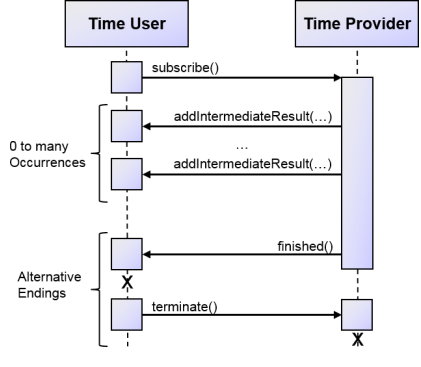
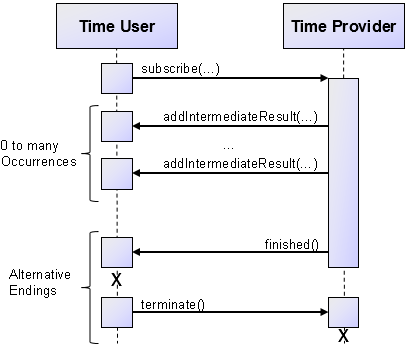
update timeservice interface in quickstart tutorial

Changed region(s): [[0.0, 0.0, 1.0, 1.0]]

diff --git a/applications/micro/src/main/java/jadex/micro/quickstart/ITimeService.java b/applications/micro/src/main/java/jadex/micro/quickstart/ITimeService.java
@@ -21,7 +21,7 @@ public interface ITimeService
 	/**
 	 *  Get the location of the platform, where the time service runs.
 	 */
-	// TODO: support for cached methods, yes or no? -> otherwise forbid or support sync?
+// TODO: support for cached methods, yes or no? -> otherwise forbid or support sync?
 	public IFuture<String>	getLocation();
 	
 	/**

diff --git a/docs/tutorials/quickstart/02 Time Service Interface.md b/docs/tutorials/quickstart/02 Time Service Interface.md
@@ -6,64 +6,71 @@ This chapter sketches the Java project setup and explains how to define a Jadex 
 
 This quickstart tutorial assumes that you are familiar with Java and your favourite IDE. Therefore, you should know how to set up a project to start developing Java applications, which use Jadex.
 
-For your Java project please make sure **not** to include the jadex-application-xyz jars as they already contain the quickstart tutorial classes. If you include these, Java might ignore your own classes and only use the ones from the jar. If you set up your project using the gradle-based [Jadex example project](../../getting-started/getting-started.md#importing-the-jadex-example-project), the appropriate jars will be automatically included and excluded as needed.
+For your Java project please make sure **not** to include the `jadex-application-xyz` jars as they already contain the quickstart tutorial classes. If you include these, Java might ignore your own classes and only use the ones from the jar. If you set up your project using the gradle-based [Jadex example project](../../getting-started/getting-started.md#importing-the-jadex-example-project), the appropriate jars will be automatically included and excluded as needed.
 
 If you need additional guidance for the project setup, please have a look at the [getting started guide](../../getting-started/getting-started.md#ide-setup)).
 
 ## The Time Service Interface
 
-Create Java file *ITimeService.java* in the package *jadex.micro.quickstart* and paste the contents as shown below. In Eclipse you can also copy/paste the code directly into your project and [have Eclipse create the package and file automatically](../../getting-started/getting-started.md#testing-your-project-setup). The relevant aspects of this file are explained in the following subsections.
+Create Java file `ITimeService.java` in the package `jadex.micro.quickstart` and paste the contents as shown below. In Eclipse you can also copy/paste the code directly into your project and [have Eclipse create the package and file automatically](../../getting-started/getting-started.md#testing-your-project-setup). The relevant aspects of this file are explained in the following subsections.
 
 ```java
 package jadex.micro.quickstart;
 
+import java.text.DateFormat;
+
 import jadex.bridge.service.annotation.Security;
+import jadex.bridge.service.annotation.Service;
+import jadex.commons.future.IFuture;
 import jadex.commons.future.ISubscriptionIntermediateFuture;
+
 
 /**
  *  Simple service to publish the local system time.
  *  As the service does not change the local system
  *  and provides no sensitive information, no security
- *  restrictions are required.
+ *  restrictions are required. 
  */
-@Security(Security.UNRESTRICTED)
+@Security(roles=Security.UNRESTRICTED)
+@Service
 public interface ITimeService
 {
     /**
-     *  Subscribe to the time service.
-     *  Every couple of seconds, a string with the current time
-     *  will be sent to the subscriber.
+     *  Get the location of the platform, where the time service runs.
      */
-    public ISubscriptionIntermediateFuture<String>    subscribe();
+    public IFuture<String> getLocation();
 
     /**
-     *  Get the location of the platform, where the time service runs.
-     *  The location is a constant value for each service, therefore it can be cached
-     *  and no future is needed.
+     *  Subscribe to the time service.
+     *  Every couple of seconds, a string with the current time will be
+     *  sent to the subscriber.
      */
-    public String    getLocation();
+    public ISubscriptionIntermediateFuture<String> subscribe(DateFormat format);
 }
+
 ```
 
 *Figure 1:* Time service interface in Java
 
 ### The Name and Package of the Interface
 
-In Jadex, the fully qualified name of a service interface is used for service discovery. Therefore when you implement a time user component to search for your *ITimeService*, Jadex will discover all components worldwide that offer a service of type *jadex.micro.quickstart.ITimeService*. If you make sure to use the interface and package name as shown, you might be able to find other people's time provider components.
+In Jadex, the fully qualified name of a service interface is used for service discovery. Therefore when you implement a time user component to search for your `ITimeService`, Jadex will discover all components worldwide that offer a service of type `jadex.micro.quickstart.ITimeService`. If you make sure to use the interface and package name as shown, you might be able to find other people's time provider components.
 
-* *todo: E.g. for testing purposes there should be a time provider running on our infrastructure.*
-* *todo: infrastructure link?*
-* *todo: time provider autodeploy from build*
-* *todo: web page listing available time providers (jadex.js)* |
+<!--
+TODO:
+* E.g. for testing purposes there should be a time provider running on our infrastructure.
+* infrastructure link?
+* time provider autodeploy from build
+* web page listing available time providers (jadex.js)
+-->
 
-### The *subscribe()* Method
+### The `subscribe()` Method
 
 Service methods are potentially remote calls. Therefore service methods should use [future types](../../futures/futures.md)) as return values. Futures avoid that the caller is blocked during the service processing and add further support e.g. for dealing with timeouts.
 
-The subscribe() method signature captures most of the interaction between time provider and time user. It uses the [subscription intermediate future](../../futures/futures.md)) as a return type, which denotes a subscription semantics for the interaction as shown in the diagram below.
+The `subscribe()` method signature captures most of the interaction between time provider and time user. It accepts a `DateFormat` object as input and uses the [subscription intermediate future](../../futures/futures.md#subscription-futures)) as a return type, which denotes a subscription semantics for the interaction as shown in the diagram below.
 
-![02 Time Service Interface@subscription.png](subscription.png)
-*Figure 2: Interaction diagram of a subscription future*
+![Interaction diagram of a subscription future](subscription.png "Interaction diagram of a subscription future")
 
 The interactions starts by the user calling the subscribe() method on the service of the provider. While the interaction is active, the time provider may post time values in arbitrary intervals. These time values are transmitted as intermediate results of the future and immediately become available to the time user. At any point in time, either of both sides may decide to end the interaction. The time provider may do this by setting the future to finished to indicate that no more results will be published. The time user on the other hand may decide that it no longer wants to receive time values from the time provider and thus may call the *cancel()* method on the future.
 
